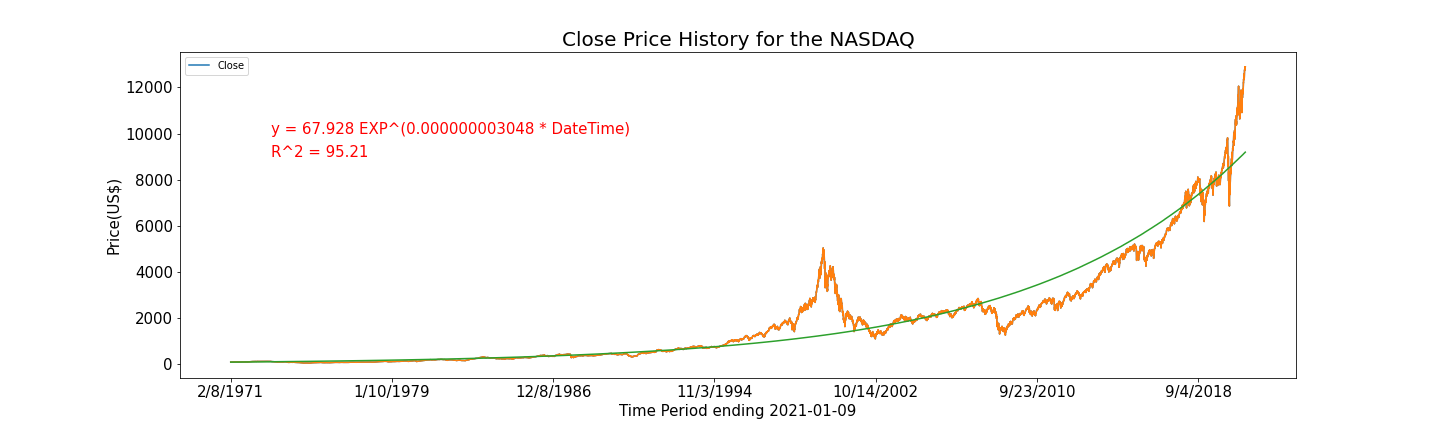
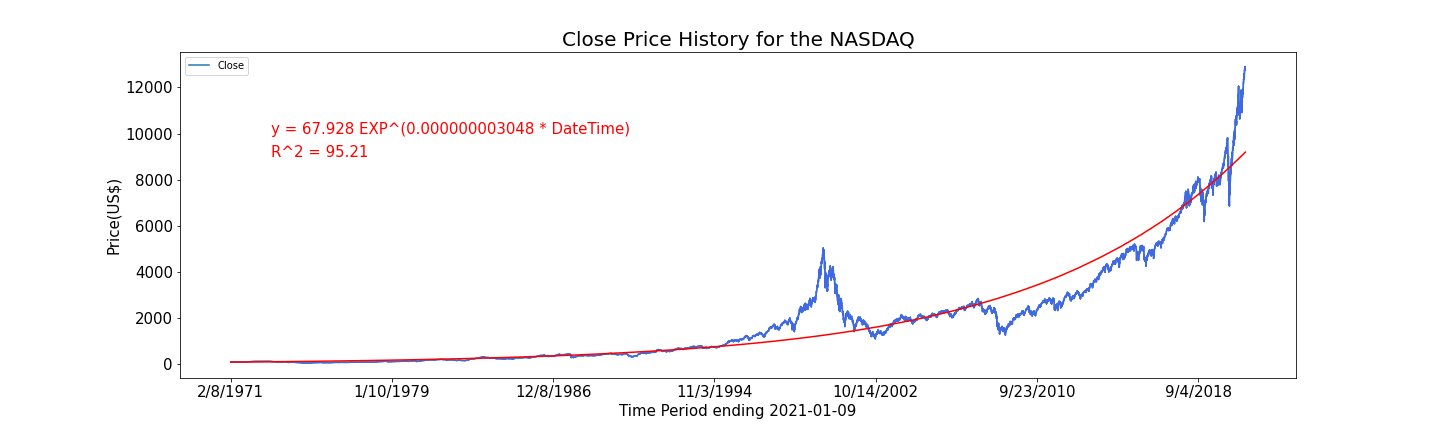
update graph colors

diff --git a/Presentation 2/about_Paul.html b/Presentation 2/about_Paul.html
@@ -1,0 +1,104 @@
+<!DOCTYPE html>
+<html lang="en">
+
+  <head>
+
+    <meta charset="utf-8">
+    <meta name="viewport" content="width=device-width, initial-scale=1, shrink-to-fit=no">
+    <meta name="description" content="">
+    <meta name="author" content="">
+
+    <title>About</title>
+
+    <!-- Bootstrap core CSS -->
+    <link href="static/vendor/bootstrap/css/bootstrap.min.css" rel="stylesheet">
+
+    <!-- Custom styles for this template -->
+    <link href="static/css/about.css" rel="stylesheet">
+
+  </head>
+
+  <body>
+    <div class="container-fluid">
+      <div class="jumbotron text-center mt-5 mb-5" style="background-color:lightblue;">
+
+    <!-- Navigation -->
+    <nav class="navbar navbar-expand-lg navbar-dark bg-dark fixed-top" id="mainNav">
+      <div class="container">
+        <a class="navbar-brand js-scroll-trigger" href="index.html">Home</a>
+        <div class="collapse navbar-collapse"  id="navbarResponsive">
+          <ul class="navbar-nav ml-auto">
+            <li class="nav-item">
+              <a class="nav-link" href="about.html">About</a>
+            </li>
+            <li class="nav-item active">
+              <a class="nav-link" href="https://github.com/pauleppers/StockAnalysis">GitHub</a>
+            </li>
+          </ul>
+        </div>
+      </div>
+    </nav>
+
+    <!-- Page Content -->
+    <div class="container">
+
+      <!-- Introduction Row -->
+      <h1 class="my-4">About Us</h1>
+      <p> Insert content on project</p>
+
+           <!-- Team Members Row -->
+      <div class="row">
+        <div class="col-lg-12">
+          <h2 class="my-4">Our Team</h2>
+        </div>
+        <div class="col-lg-4 col-sm-6 text-center mb-4">
+          <!-- <img class="rounded-circle img-fluid d-block mx-auto" src="http://placehold.it/200x200" alt=""> -->
+        <h3>Paul Eppers</h3>  
+          <p><strong><a href="https://pauleppers.github.io/">Paul Eppers's Github Homepage</strong></a></p>
+          <!-- <p>What does this team member do? Keep it short,a great spot for social links such as linkedin.</p> -->
+        </div>
+        <div class="col-lg-4 col-sm-6 text-center mb-4">
+          <!-- <img class="rounded-circle img-fluid d-block mx-auto" src="http://placehold.it/200x200" alt=""> -->
+          <h3>Juliann Pezzullo</h3>
+          <p><strong><a href="https://github.com/jump8621/">Juliann Pezzullo's Github Homepage</strong></a></p>
+          <!-- <p>What does this team member do? Keep it short,a great spot for social links such as linkedin</p> -->
+        </div>
+        <div class="col-lg-4 col-sm-6 text-center mb-4">
+          <!-- <img class="rounded-circle img-fluid d-block mx-auto" src="http://placehold.it/200x200" alt=""> -->
+          <h3>Craig Matherson</h3>
+          <p><strong><a href="https://github.com/clmatherson">Craig Matherson's Github Homepage</strong></a></p>
+          <!-- <p>What does this team member do? Keep it short,a great spot for social links such as linkedin</p> -->
+        </div>
+        <div class="col-lg-4 col-sm-6 text-center mb-4">
+        <!-- <img class="rounded-circle img-fluid d-block mx-auto" src="http://placehold.it/200x200" alt=""> -->
+        <h3>Connor Lanier</h3>
+        <!-- <p>What does this team member do? Keep it short,a great spot for social links such as linkedin</p> -->
+      </div>
+        <div class="col-lg-4 col-sm-6 text-center mb-4">
+          <!-- <img class="rounded-circle img-fluid d-block mx-auto" src="http://placehold.it/200x200" alt=""> -->
+          <h3>Nadia Albarracin</h3>
+          <!-- <p>What does this team member do? Keep it short,a great spot for social links such as linkedin</p> -->
+        </div>
+        <div class="col-lg-4 col-sm-6 text-center mb-4">
+          <!-- <img class="rounded-circle img-fluid d-block mx-auto" src="http://placehold.it/200x200" alt=""> -->
+          <h3>John Klinges</h3>
+          <p><strong><a href="https://github.com/jklinges">John Klinges's Github Homepage</strong></a></p>
+          <!-- <p>What does this team member do? Keep it short,a great spot for social links such as linkedin</p> -->
+        </div>
+    <!-- /.container -->
+
+    <!-- Footer -->
+    <footer class="py-5 bg-dark">
+      <div class="container">
+        <p class="m-0 text-center text-white">Copyright &copy; Your Website 2021</p>
+      </div>
+      <!-- /.container -->
+    </footer>
+
+    <!-- Bootstrap core JavaScript -->
+    <script src="static/vendor/jquery/jquery.min.js"></script>
+    <script src="static/vendor/bootstrap/js/bootstrap.bundle.min.js"></script>
+
+  </body>
+
+</html>
